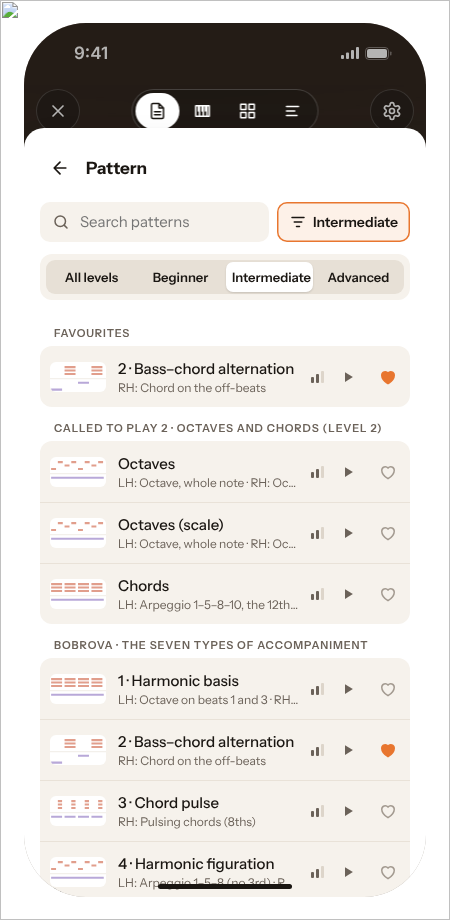
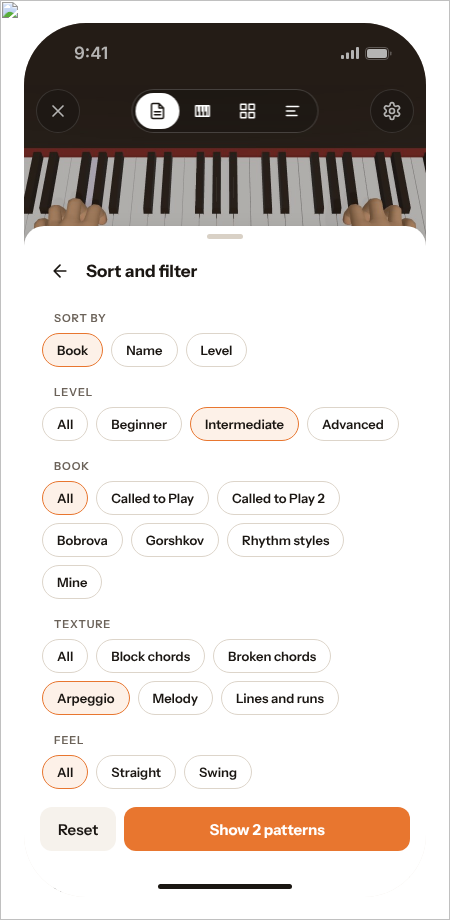
R37 canvas: the Pattern page as a library with Sort and filter
A Sort and filter page (Sort by, Level, Book, Texture, Feel, Reset, Show n)
with its count on the button and removable chips; Recently used and
Favourites first; shelf counts. From Band-in-a-Box's StylePicker, forScore's
sort and filter rules, flowkey's levels and the app's own library sheet.

Claude-Session: https://claude.ai/code/session_01BrtnH1Yf7S8aVU4w6rFSCU

diff --git a/.scratch/r37/plan/pace-and-settings.md b/.scratch/r37/plan/pace-and-settings.md
@@ -57,19 +57,28 @@ patterns in our app, and how should they be organized like a library"; the two-a
 - Second pass ("research more and improve this"): the page now takes the shape of the app's own library
   (`widgets/practice-library`, the Songs library's shape), so the Player and Practice › Accompaniment read alike;
   Smart Pianist's pattern list (Block · Arpeggio families, one list) and forScore's searchable lists agree.
-- Will build: Back · **Pattern**; a **Search patterns** field (name and both hands' figures) and **Filter**, which
-  opens a Level choice **All levels · Beginner · Intermediate · Advanced** (the button then reads the level and is
-  outlined). Then the shelves, as the app names them: **Favourites**, **Called to Play · The five ways (lesson 3)**,
-  **Called to Play · Right-hand techniques**, **Called to Play 2 · Octaves and chords (level 2)**, **Bobrova · The
-  seven types of accompaniment**, **Gorshkov · Arranging the accompaniment**, **Rhythm styles**, **Mine** last; each a
-  grouped card folded after five with **Show all n** (a search shows every match). A row: the bar as a small two-hand
-  roll (`FigureRoll`), the name over its hands line (**LH: Octave, whole note · RH: Chord on every beat**, the
-  figures' own names), the level mark (the book's stage, the app's `LevelMark` pips), **Listen** ▶ and **Favourite**
-  ♡ (the app's heart, not a star). The one playing is highlighted and bold; a tap chooses it and goes back to Song.
-  Nothing matches: **No patterns match**. Last, **Manage patterns ›** opens Practice › Accompaniment, where patterns
-  are made, renamed, hidden and arranged: the Player only chooses, listens and favourites. A pattern that cannot play
-  this song's meter or chords is left out (`fit.ts`). Drawings: `.scratch/r37/drawings/pattern-library.png`,
-  `pattern-library-filter.png`.
+- Third pass ("make more like a library and better filtering and better structure, research properly"):
+  Band-in-a-Box's StylePicker filters by genre, feel, time signature and tempo, keeps Favorites and Recently Played,
+  previews on a double-click, sorts by any column (pgmusic.com manuals, chapter 5; the 2024 MultiPicker); forScore
+  sorts by title, rating, difficulty or key and filters by rules over composer, genre and tag (forscore.co,
+  Sorting Scores, menu search and filters); flowkey filters its library by level (Beginner to Pro) and category;
+  the app's own library holds Sort (book order, name, level) and a Filter sheet (Level, Book or style) with its
+  count and removable chips (`widgets/practice-library`, `LibrarySearch`).
+- Will build: Back · **Pattern**; **Search patterns** (name and both hands' figures) and the **Sort and filter**
+  button beside it, with the number of filters on it. It opens a page, Back · **Sort and filter**: **Sort by** Book ·
+  Name · Level; **Level** All · Beginner · Intermediate · Advanced; **Book** All · Called to Play · Called to Play 2 ·
+  Bobrova · Gorshkov · Rhythm styles · Mine; **Texture** All · Block chords · Broken chords · Arpeggio · Melody ·
+  Lines and runs (what the right hand plays, Smart Pianist's Block and Arpeggio families); **Feel** All · Straight ·
+  Swing; the foot **Reset** and **Show n patterns**. Each filter on shows as a chip under the search with ×.
+- The list by Book: **Recently used** (the last three chosen, the playing one first) and **Favourites** while nothing
+  narrows, then each book's shelf as Practice names it (Called to Play · The five ways (lesson 3), … Rhythm styles,
+  Mine last), its count at the heading's end, folded after five with **Show all n**. By Name one A–Z list; by Level
+  Beginner, Intermediate, Advanced, Not graded. A row: the two-hand roll, the name over its hands line (LH: … · RH:
+  …), the level mark, **Listen** ▶, **Favourite** ♡; the playing one highlighted and bold; a tap chooses it and goes
+  back to Song. Nothing matches: **No patterns match**. Last **Manage patterns ›** to Practice › Accompaniment, where
+  patterns are made, renamed and hidden. A pattern that cannot play the song's meter or chords is left out
+  (`fit.ts`). The app's Filter sheet gains Texture and Feel, so both read alike. Drawings:
+  `.scratch/r37/drawings/pattern-library.png`, `pattern-library-filter.png`, `pattern-library-filtered.png`.
 - **No Voicing and no Swing** ("what are these swings and chords options"). Voicing (Close · Drop 2) is how far the
   chord's notes are spread, Drop 2 a jazz spacing; Swing plays pairs of 8ths long-short. Both are arranger's
   choices: each pattern carries its own spacing and feel, and the swung patterns are patterns of their own.

diff --git a/.claude/skills/owner-way/references/feedback-log.md b/.claude/skills/owner-way/references/feedback-log.md
@@ -101,10 +101,10 @@ owner's, typos fixed.
     (Pattern ›). Versions and accompaniment are separate, one plays. Rejected: "As written", a switch over version
     tiles, one mixed list. Names are the trade's: flowkey's levels, Smart Pianist's Accompaniment and Pattern. No Voicing or Swing; the accompaniment is not in
     Practice.
-  - The Player's Pattern page is the app's own accompaniment library in the library's shape: Search and Filter
-    (Level), shelves named as Practice names them (book · group, Rhythm styles, Mine last) folded after five, rows
-    with a two-hand roll, the name over the hands line, the level mark, Listen and a heart; Manage patterns › to
-    Practice. Never chips by kind, stars or cards two a row.
+  - The Player's Pattern page is a library: Search, a Sort and filter page (Sort by, Level, Book, Texture, Feel,
+    Reset · Show n) with its count on the button and removable chips; Recently used and Favourites first, then the
+    books' shelves with counts, folded after five; rows with roll, hands line, level, Listen, heart. Never chips by
+    kind, stars or cards two a row.
   - The metronome is Flat's: one Off · Count-in · On choice under the tempo, and Metronome sound › opens a page
     (sound list with a check, Volume, Back). A choice with its own list opens a page, as Flat's Playback options do.
   - No cursor or scrolling settings at all, neither a switch nor choices (rejected twice). The cursor moves by
